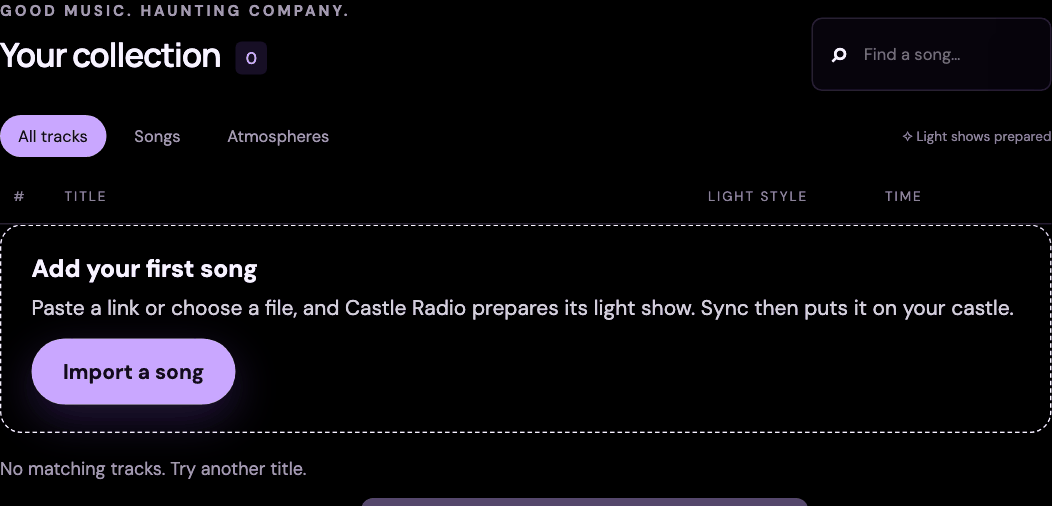
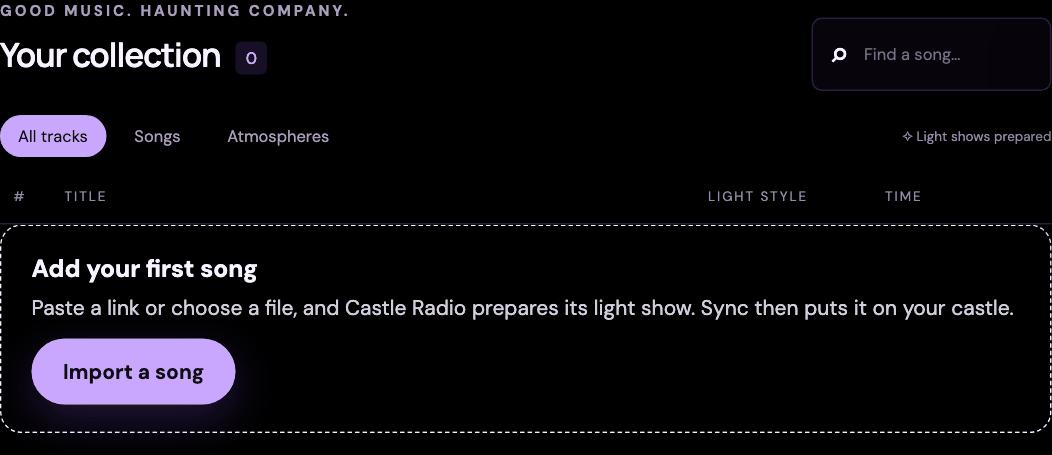
Import's status line speaks to the owner — songs are prepared and kept on this computer, and a service that is not answering is being tried again rather than a server.py to start — and the guide's two Castle Radio pictures are retaken without the old lines

diff --git a/demo/castle-radio/imports.js b/demo/castle-radio/imports.js
@@ -124,8 +124,8 @@ function renderJob(j,place){
   if(waitingNote){return `<article class="import-job waiting"><div><b>${name}</b><span>${waitingNote}</span></div>${cancelButton}</article>`;}
   return `<article class="import-job"><div><b>${name}</b><span>${escapeHTML(j.phase)}</span></div>${jobMeasure(j)}${jobOutcome(j)}${cancelButton}</article>`;
 }
-async function refresh(){if(pollBusy){return;}pollBusy=true;try{const [jobs,rows]=await Promise.all([request('/radio/jobs'),request('/radio/library')]);$('service-status').textContent='Import service ready · files stay in this demo';if(JSON.stringify(jobs)!==lastJobs){lastJobs=JSON.stringify(jobs);jobsNow=jobs;renderJobs();}const signature=JSON.stringify(rows);if(signature!==lastLibrary){lastLibrary=signature;integrate(rows);renderJobs();}}catch{ // any failure reads the same to the user: the service is not answering
-$('service-status').textContent='Import service unavailable. Start server.py to import songs.';}finally{pollBusy=false;}}
+async function refresh(){if(pollBusy){return;}pollBusy=true;try{const [jobs,rows]=await Promise.all([request('/radio/jobs'),request('/radio/library')]);$('service-status').textContent='Import service ready · songs are prepared and kept on this computer';if(JSON.stringify(jobs)!==lastJobs){lastJobs=JSON.stringify(jobs);jobsNow=jobs;renderJobs();}const signature=JSON.stringify(rows);if(signature!==lastLibrary){lastLibrary=signature;integrate(rows);renderJobs();}}catch{ // any failure reads the same to the user: the service is not answering
+$('service-status').textContent='Import service unavailable · trying again';}finally{pollBusy=false;}}
 /* One import, or many: every link on its own line and every chosen file is
    queued in the order given. What could not be queued stays in the box with
    the reason, so a full queue or one bad link does not cost the whole list. */

diff --git a/demo/castle-radio/test_device_site.py b/demo/castle-radio/test_device_site.py
@@ -108,6 +108,25 @@ class TestBuild(FakeData):
         self.assertIn("This browser remembers it for this castle only.", page)
         self.assertIn('<audio id="audio" preload="none">', page)
 
+    def test_the_import_line_speaks_to_an_owner_on_both_pages(self):
+        """What Import says of its service is the owner's truth, not the
+        demo's: no "this demo", no server.py to start. The computer keeps
+        what it prepares; the castle's page says what it can do instead."""
+        source = (HERE / "imports.js").read_text(encoding="utf-8")
+        said = re.findall(r"\$\('service-status'\)\.textContent='([^']*)'", source)
+        self.assertEqual(
+            said,
+            [
+                "Import service ready · songs are prepared and kept on this computer",
+                "Import service unavailable · trying again",
+            ],
+        )
+        page = device_site.build(HERE, self.data).decode()
+        for line in said:
+            self.assertNotIn(line, page)
+        self.assertIn("Castle library ready · connect Mac tools to import", page)
+        self.assertIn("Castle library unavailable · retrying", page)
+
     def test_the_castle_guard_is_in_the_source_not_only_the_build(self):
         """B47: the control-room laptop must not fetch media/ either, so the
         castle-mode guard lives in app.js and the build only moves the path."""
